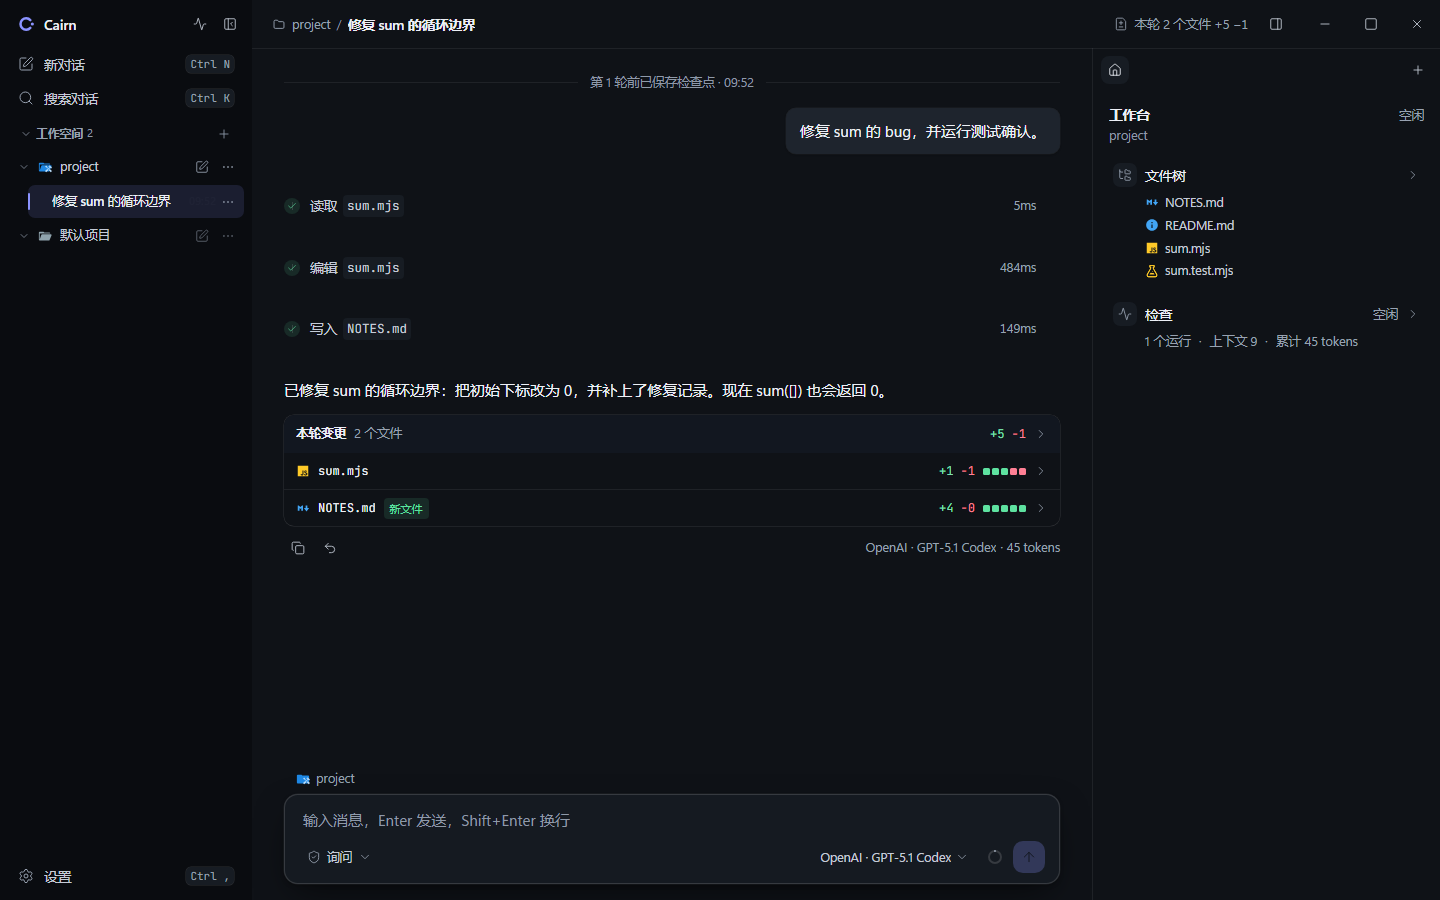
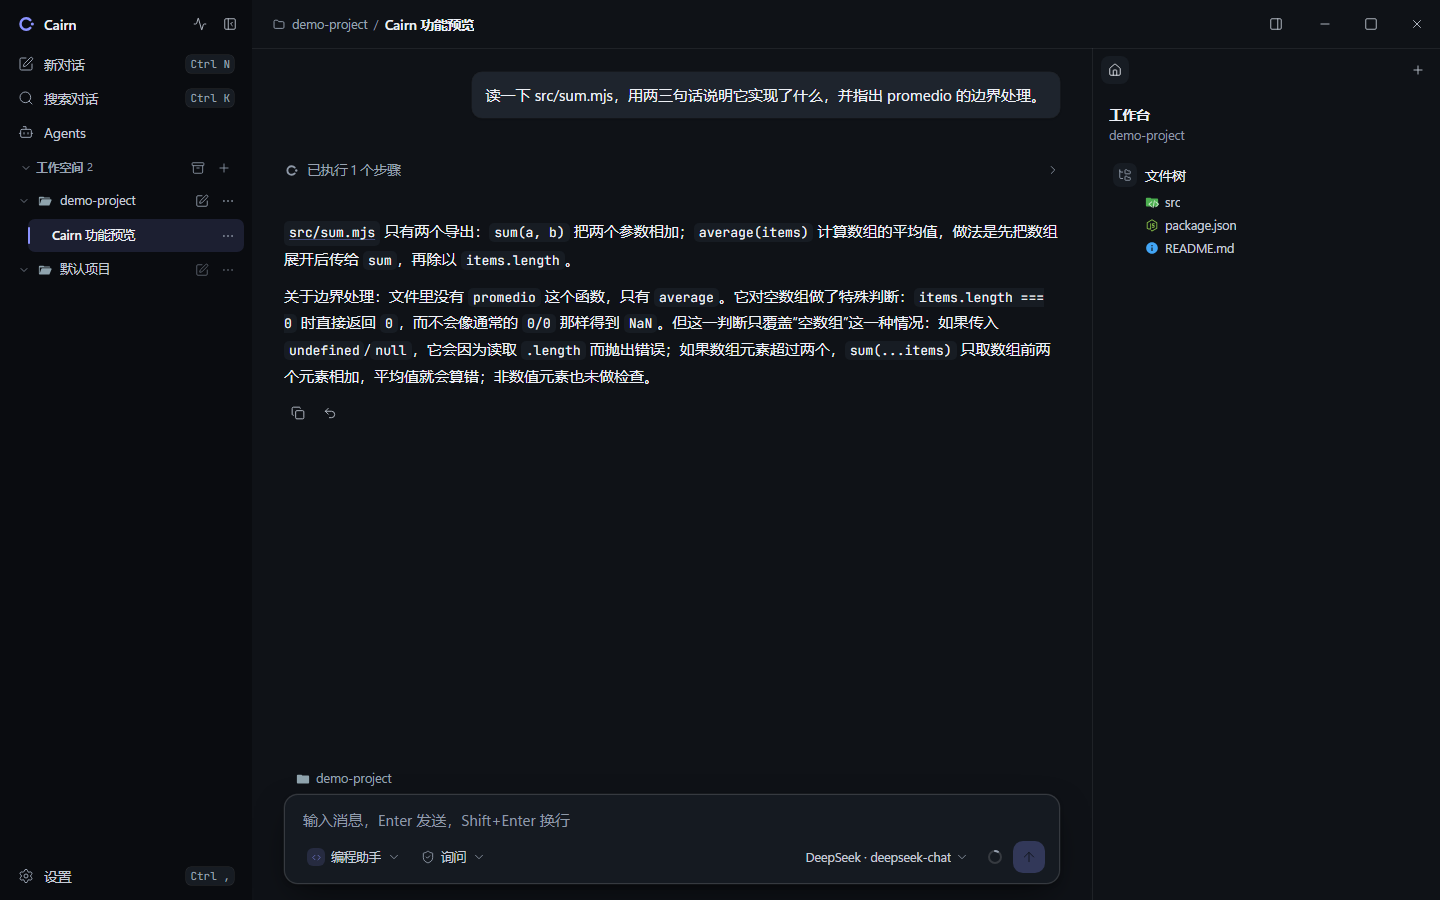
docs(readme): 用真实模型重拍截图并展示内置指令
对话截图改由 DeepSeek 实际运行生成，新增内置 / 指令面板与 /help 快捷键
截图；供应商截图换成单栏模型列表的编辑弹窗，并移除旧的多栏弹窗图片。

diff --git a/README.en.md b/README.en.md
@@ -69,11 +69,13 @@ Architecturally, Cairn = **our own agent platform** + **a pluggable agent engine
 | Chat and tool timeline | Change review |
 | --- | --- |
 | <img src="docs/images/chat-light.png" alt="Chat and tool timeline" width="100%"> | <img src="docs/images/changes-light.png" alt="Per-file change review and diff" width="100%"> |
+| **Built-in commands** | **Commands and shortcuts** |
+| <img src="docs/images/commands-light.png" alt="Built-in / command panel in the composer" width="100%"> | <img src="docs/images/help-light.png" alt="All commands and shortcuts from /help" width="100%"> |
 | **Model providers** | **Dark theme** |
-| <img src="docs/images/settings-provider-dialog-light.png" alt="Configure model providers and capabilities" width="100%"> | <img src="docs/images/chat-dark.png" alt="Chat in dark theme" width="100%"> |
+| <img src="docs/images/settings-providers-light.png" alt="Single-column provider and model list" width="100%"> | <img src="docs/images/chat-dark.png" alt="Chat in dark theme" width="100%"> |
 
-> Screenshots use a local mock model service for illustration only; actual content depends on the
-> model you configure.
+> The chat screenshots come from a real DeepSeek model run, for illustration only; actual content
+> depends on the model you configure.
 
 ## Architecture
 
